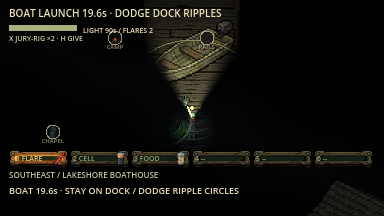
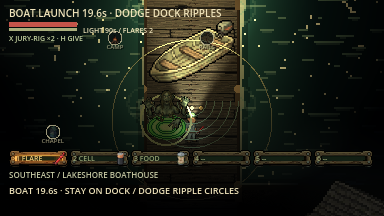
Brighter lake water and pier lantern; refresh boat, Groundskeeper and lobby screenshots
Claude-Session: https://claude.ai/code/session_0173eNmhGBSpgRU2RCoyRHp2

diff --git a/docs/development_log.md b/docs/development_log.md
@@ -89,6 +89,15 @@ The game was played with friends; their findings and the changes made:
   `design_feedback` included): all 140 steps passed.
 - Gates, entrances, water and lobby checked in captured frames.
 
+**Screenshots:**
+- After a normal-darkness capture the water was brightened (shallows and
+  crests lifted, glints stronger but sparser) and the pier lantern widened
+  (220 px, energy 1.25); `field_escapes.gd --capture` still passes 58/58.
+- The README boat, boathouse, lake-thing, Groundskeeper (reframed so he is
+  actually in view; the old frame showed Bigfoot) and lobby screenshots were
+  retaken; the lobby comes from `verify_network.py --mode camp --players 2
+  --graphical` (host 107, client 29, late joiner 2 checks).
+
 ## 2026-10-17 — Import crash on Linux and Windows: voice library kept out of the editor
 
 The friends' machines still failed after the launcher fixes. Their logs showed

diff --git a/docs/screenshots/README.md b/docs/screenshots/README.md
@@ -32,6 +32,13 @@ paused for inspection. Creature portraits disable AI. Landmark close-ups
 so the art is readable; normal nights are much darker. The extraction result
 comes from a complete automated expedition with all enemies active.
 
+After the playtest feedback round (17 October, later): `boat_launch.png`,
+`lakeshore_boathouse.png` and `lake_thing.png` (from `field_escapes.gd --capture`,
+`artifacts/verification/rescue_boat.png`, `rescue_boathouse.png`,
+`rescue_lake_thing.png`) show the new lake water; `groundskeeper_snare.png`
+(reframed showcase) shows the Groundskeeper facing his direction of travel;
+`lobby.png` shows the lobby voice meters. These frames include the new health bar.
+
 Older captures cited by the development log stay in `../evidence/` unchanged.
 
 The treeline captures use normal night exposure and weather, with controlled
